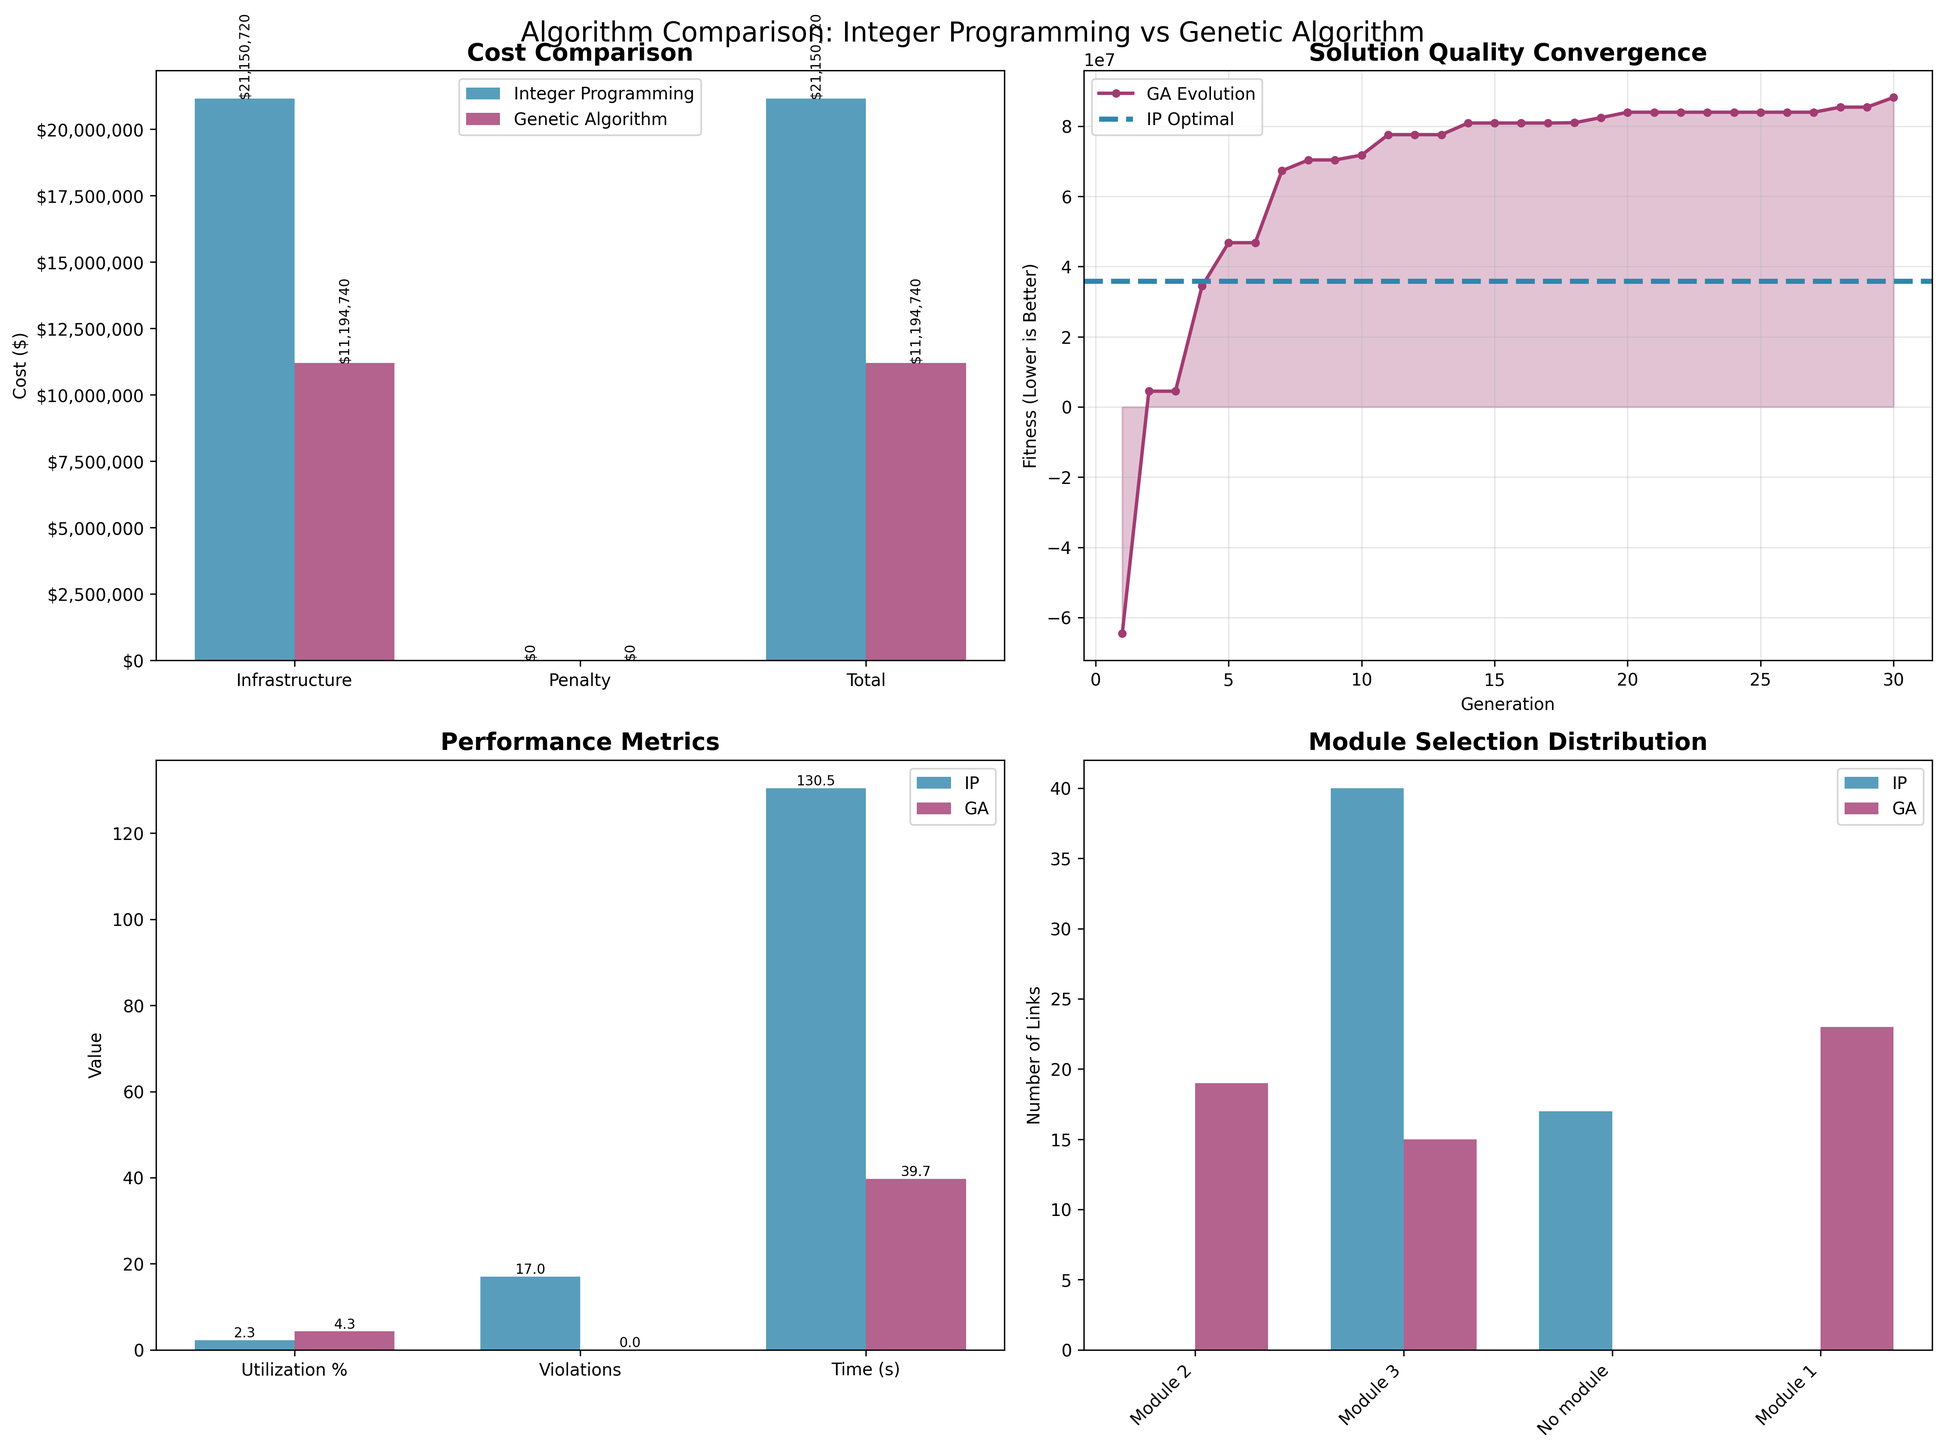
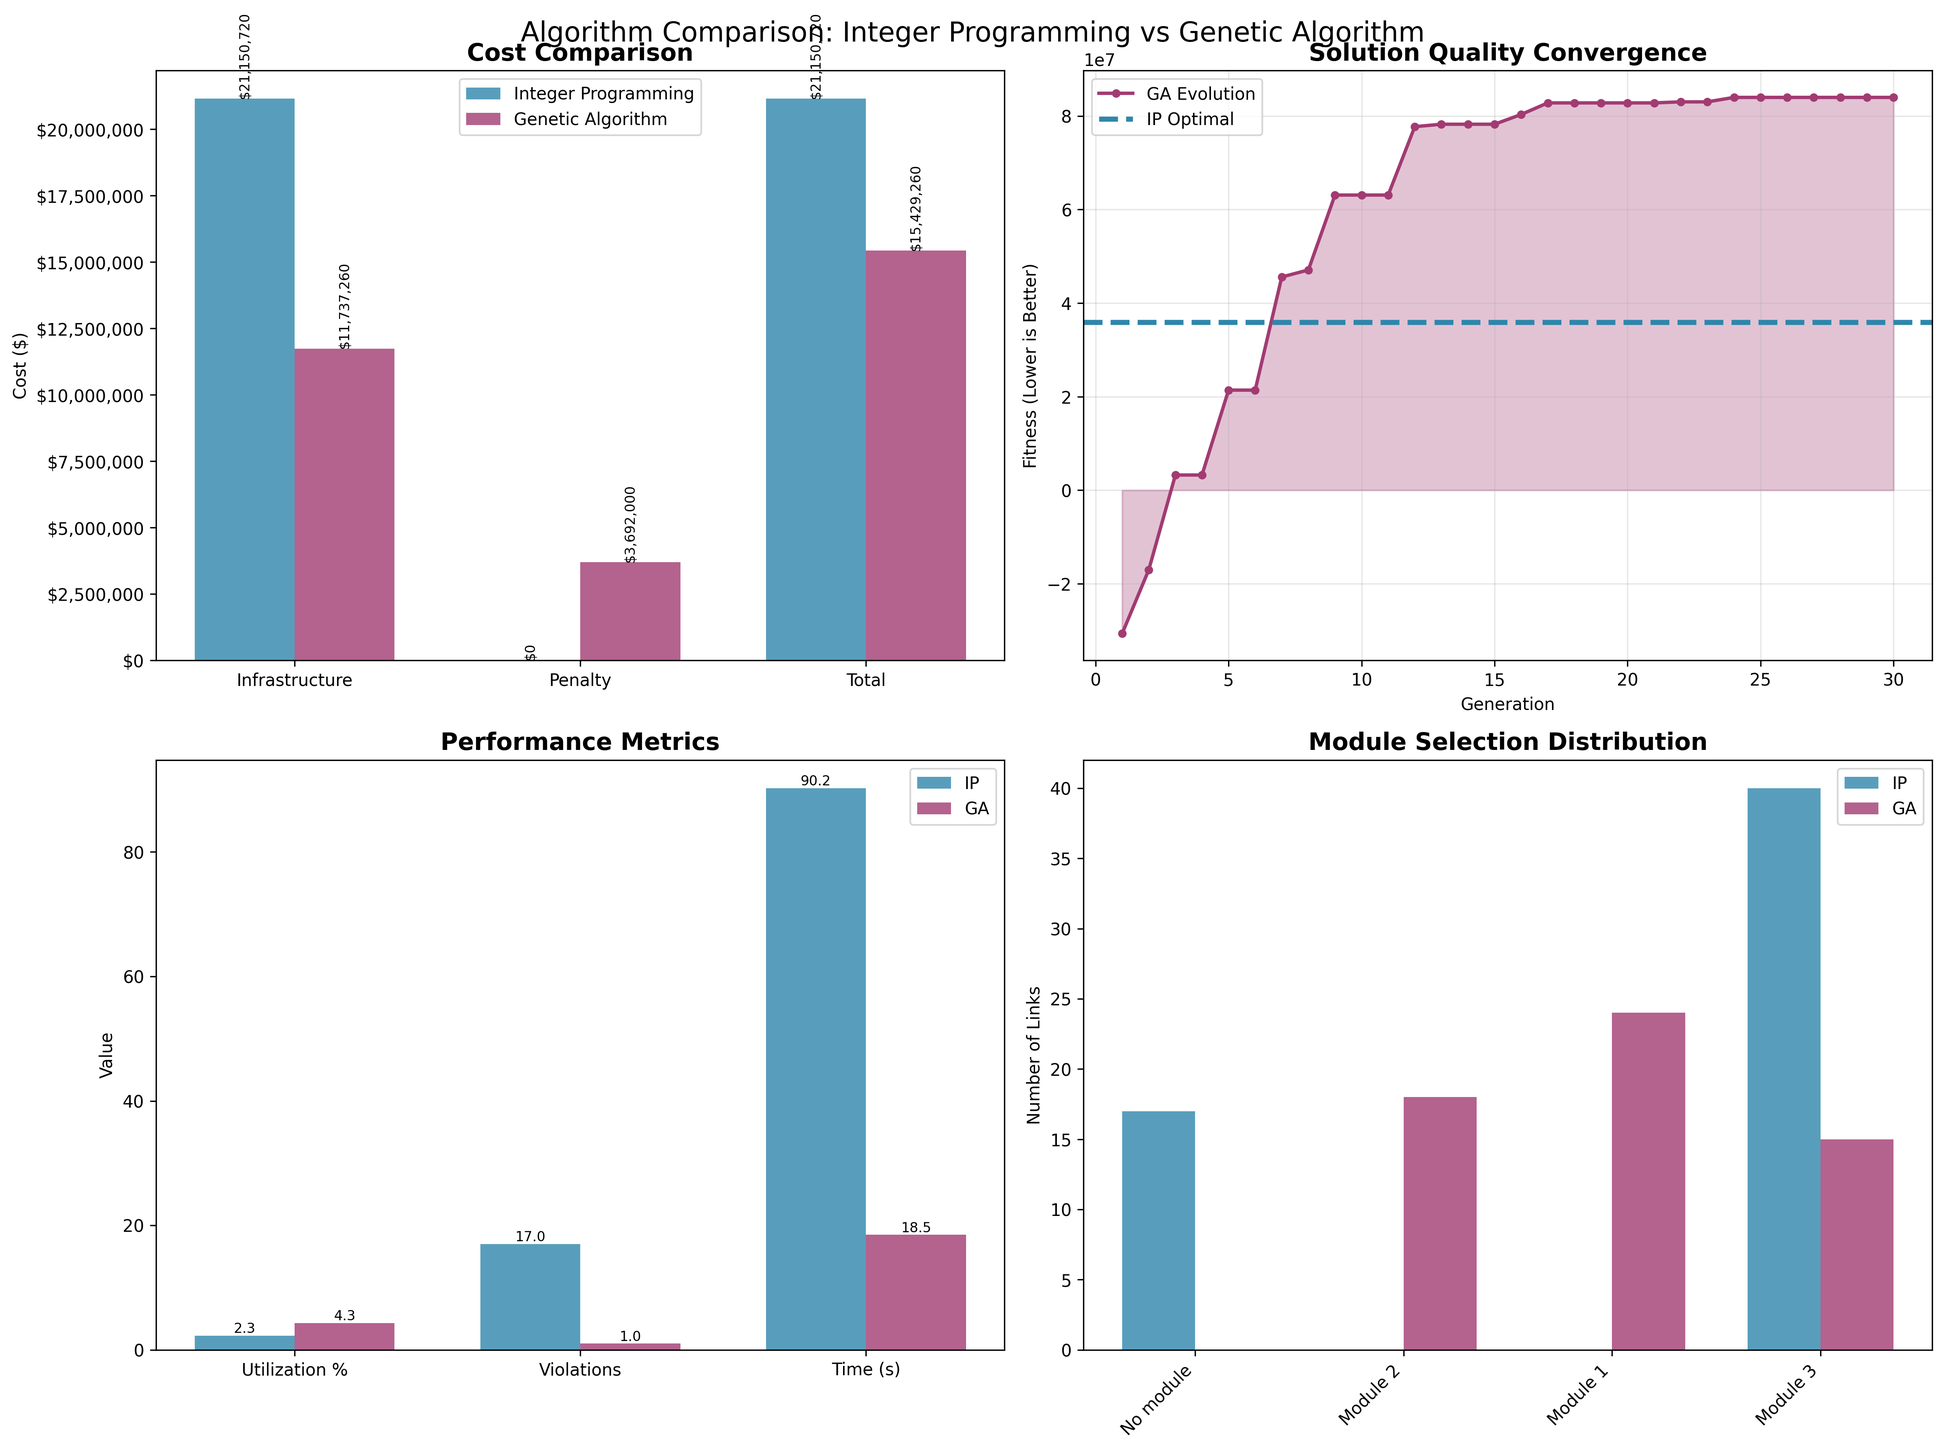
fix issues - default gurobi

diff --git a/main.py b/main.py
@@ -313,7 +313,8 @@ def create_detailed_analysis_plots(ip_results, ga_results):
 
 def create_performance_analysis_plots(ip_results, ga_results):
     """Create performance and convergence analysis plots."""
-    fig, ((ax1, ax2), (ax3, ax4)) = plt.subplots(2, 2, figsize=(16, 12))
+    fig, ((ax1, ax2, ax3), (ax4, ax5, ax6)
+          ) = plt.subplots(2, 3, figsize=(24, 12))
 
     ip_details = ip_results['solution_details']
     ga_details = ga_results['solution_details']
@@ -438,7 +439,74 @@ def create_performance_analysis_plots(ip_results, ga_results):
         ax3.text(bar.get_x() + bar.get_width()/2., height + 0.02,
                  labels[i], ha='center', va='bottom', fontsize=9)
 
-    # 4. Algorithm Trade-off Analysis (Pareto Front Style)
+    # 4. Average Optimal Norm over Generation/Iteration
+    if ga_results.get('average_fitness_history'):
+        generations = list(
+            range(1, len(ga_results['average_fitness_history']) + 1))
+        ga_avg_fitness = ga_results['average_fitness_history']
+
+        ax4.plot(generations, ga_avg_fitness, 'o-', color='#A23B72',
+                 linewidth=2, markersize=4, label='GA Average Fitness')
+
+        # Add IP optimal line as reference (single point since IP doesn't iterate)
+        ax4.axhline(y=ip_results['best_fitness'], color='#2E86AB',
+                    linestyle='--', linewidth=2, alpha=0.8, label='IP Optimal Reference')
+
+        ax4.set_title('Average Optimal Norm Over Generations',
+                      fontsize=14, fontweight='bold')
+        ax4.set_xlabel('Generation/Iteration')
+        ax4.set_ylabel('Average Fitness (Higher is Better)')
+        ax4.legend()
+        ax4.grid(True, alpha=0.3)
+
+        # Fill area under curve for better visualization
+        ax4.fill_between(generations, ga_avg_fitness,
+                         alpha=0.3, color='#A23B72')
+    else:
+        # If no GA data, just show IP point
+        ax4.scatter([1], [ip_results['best_fitness']], color='#2E86AB',
+                    s=100, label='IP Optimal', alpha=0.8)
+        ax4.set_title('Average Optimal Norm Over Generations',
+                      fontsize=14, fontweight='bold')
+        ax4.set_xlabel('Generation/Iteration')
+        ax4.set_ylabel('Average Fitness (Higher is Better)')
+        ax4.legend()
+        ax4.grid(True, alpha=0.3)
+
+    # 5. Time per Generation/Iteration
+    if ga_results.get('plotting_data', {}).get('execution_timeline', {}).get('time_per_generation'):
+        generations = list(range(1, len(
+            ga_results['plotting_data']['execution_timeline']['time_per_generation']) + 1))
+        time_per_gen = ga_results['plotting_data']['execution_timeline']['time_per_generation']
+
+        ax5.plot(generations, time_per_gen, 'o-', color='#28A745',
+                 linewidth=2, markersize=4, label='GA Time per Generation')
+
+        # Add IP time as reference (single point)
+        ax5.scatter([1], [ip_results['total_time']], color='#2E86AB',
+                    s=100, label='IP Total Time', alpha=0.8)
+
+        ax5.set_title('Computation Time per Generation/Iteration',
+                      fontsize=14, fontweight='bold')
+        ax5.set_xlabel('Generation/Iteration')
+        ax5.set_ylabel('Time (seconds)')
+        ax5.legend()
+        ax5.grid(True, alpha=0.3)
+
+        # Fill area under curve
+        ax5.fill_between(generations, time_per_gen, alpha=0.3, color='#28A745')
+    else:
+        # If no GA timing data, just show IP point
+        ax5.scatter([1], [ip_results['total_time']], color='#2E86AB',
+                    s=100, label='IP Total Time', alpha=0.8)
+        ax5.set_title('Computation Time per Generation/Iteration',
+                      fontsize=14, fontweight='bold')
+        ax5.set_xlabel('Generation/Iteration')
+        ax5.set_ylabel('Time (seconds)')
+        ax5.legend()
+        ax5.grid(True, alpha=0.3)
+
+    # 6. Algorithm Trade-off Analysis (Pareto Front Style)
     algorithms = ['Integer Programming', 'Genetic Algorithm']
     total_costs = [ip_details['total_cost'] + ip_details.get('total_penalty', 0),
                    ga_details['total_cost'] + ga_details['total_penalty']]
@@ -451,20 +519,20 @@ def create_performance_analysis_plots(ip_results, ga_results):
     sizes = [300, 300]  # Base size for bubbles
 
     for i, (alg, cost, time, quality) in enumerate(zip(algorithms, total_costs, solution_times, solution_quality)):
-        ax4.scatter(time, cost, s=sizes[i], alpha=0.7, color=colors[i],
+        ax6.scatter(time, cost, s=sizes[i], alpha=0.7, color=colors[i],
                     edgecolors='black', linewidth=2, label=f'{alg}\n(Quality: {quality:.1f}%)')
 
         # Add algorithm name as annotation
-        ax4.annotate(alg.split()[0], (time, cost),
+        ax6.annotate(alg.split()[0], (time, cost),
                      xytext=(10, 10), textcoords='offset points',
                      fontsize=10, fontweight='bold')
 
-    ax4.set_title('Algorithm Trade-off Analysis\n(Cost vs Time vs Quality)',
+    ax6.set_title('Algorithm Trade-off Analysis\n(Cost vs Time vs Quality)',
                   fontsize=14, fontweight='bold')
-    ax4.set_xlabel('Solution Time (seconds)')
-    ax4.set_ylabel('Total Cost ($)')
-    ax4.legend(bbox_to_anchor=(1.05, 1), loc='upper left')
-    ax4.grid(True, alpha=0.3)
+    ax6.set_xlabel('Solution Time (seconds)')
+    ax6.set_ylabel('Total Cost ($)')
+    ax6.legend(bbox_to_anchor=(1.05, 1), loc='upper left')
+    ax6.grid(True, alpha=0.3)
 
     plt.tight_layout()
     plt.suptitle('Performance Analysis: Convergence, Robustness & Trade-offs',
@@ -498,16 +566,34 @@ def print_summary(algorithm_name, results):
         f"Links with Modules: {modules_selected}/{total_links} ({modules_selected/total_links*100:.1f}%)")
 
 
+def genetic_algorithm():
+    return run_genetic_algorithm(
+        num_generations=50,
+        sol_per_pop=50,
+        num_parents_mating=20,
+        time_limit=20*60,
+        msg=False
+    )
+
+
+def integer_programming():
+    return run_integer_programming(
+        solver_name="GUROBI",
+        time_limit=20*60,
+        msg=False
+    )
+
+
 def main(algorithm="both"):
     """Main function to run optimization algorithms."""
     if algorithm == "genetic":
         print("Running Genetic Algorithm...")
-        results = run_genetic_algorithm(num_generations=30, time_limit=10)
+        results = genetic_algorithm()
         print_summary("Genetic Algorithm", results)
 
     elif algorithm == "ip":
         print("Running Integer Programming...")
-        results = run_integer_programming(time_limit=10)
+        results = integer_programming()
         print_summary("Integer Programming", results)
 
     else:  # both
@@ -520,15 +606,10 @@ def main(algorithm="both"):
 
             # Submit both tasks
             ga_future = executor.submit(
-                run_genetic_algorithm,
-                num_generations=30,
-                time_limit=60,
-                msg=False
+                genetic_algorithm,
             )
             ip_future = executor.submit(
-                run_integer_programming,
-                time_limit=60,
-                msg=False
+                integer_programming(),
             )
 
             # Wait for results
@@ -559,6 +640,7 @@ def main(algorithm="both"):
             print("Both algorithms achieved similar costs")
 
         print(f"IP Optimal: {ip_results.get('status') == 'Optimal'}")
+        print(f"IP Status: {ip_results.get('status')}")
         print(f"GA Timeout: {ga_results.get('timeout_occurred', False)}")
 
         # Create comprehensive comparison plots

diff --git a/integer/integer_programming.py b/integer/integer_programming.py
@@ -190,18 +190,17 @@ class IntegerProgrammingOptimizer:
             status = pulp.LpStatusNotSolved
         except Exception as e:
             print(f"❌ Solver error: {e}")
-            print("   Falling back to traditional solving...")
 
-            # Fall back to traditional solving
+            # Only fall back for direct solver model approaches (CPLEX_PY, GUROBI_PY)
+            # Traditional solvers like CBC don't need fallback as they use the same approach
+
+            print("   Falling back to CBC solver...")
             try:
-                if solver_name == "PULP_CBC_CMD":
-                    if self.time_limit and self.time_limit > 0:
-                        options = [f"seconds {self.time_limit}"]
-                        solver = pulp.PULP_CBC_CMD(msg=msg, options=options)
-                    else:
-                        solver = pulp.PULP_CBC_CMD(msg=msg)
-                else:
-                    solver = pulp.getSolver(solver_name, msg=msg)
+                # Fall back to CBC when commercial solvers fail
+                if self.time_limit and self.time_limit > 0:
+                    options = [f"seconds {self.time_limit}"]
+
+                solver = pulp.PULP_CBC_CMD(msg=msg, options=options)
 
                 status = prob.solve(solver)
             except KeyboardInterrupt:
@@ -214,21 +213,52 @@ class IntegerProgrammingOptimizer:
         # Calculate solve time
         self.solve_time = time.time() - self.start_time if self.start_time else 0
 
-        # Extract solution and objective value
+        # Extract solution and objective value with proper status checking
         solution = None
         objective_value = None
+        actual_status = pulp.LpStatus[status]
 
-        if status == pulp.LpStatusOptimal:
+        # For CBC, always check if we hit the time limit regardless of reported status
+        time_limit_reached = False
+        if solver_name == "PULP_CBC_CMD" and self.time_limit:
+            # CBC often reports "Optimal" even when hitting time limit
+            time_limit_reached = self.solve_time >= self.time_limit * 0.95
+
+        # Check if we have a feasible solution
+        has_solution = status in [pulp.LpStatusOptimal, pulp.LpStatusNotSolved]
+
+        # For CBC solver, check if we actually have variable values even if status isn't optimal
+        if not has_solution and solver_name == "PULP_CBC_CMD":
+            # Try to extract solution anyway - CBC might have found a feasible solution
+            try:
+                test_solution = self._extract_solution(y)
+                if test_solution and any(pulp.value(y[link_id][0]) is not None for link_id in self.link_ids):
+                    has_solution = True
+            except:
+                pass
+
+        if has_solution:
             try:
                 solution = self._extract_solution(y)
                 objective_value = pulp.value(prob.objective)
+
+                # Store variables for flow calculation
+                self._last_solution_variables = {'x': x, 'y': y}
+
+                # Override status if we hit time limit
+                if time_limit_reached:
+                    actual_status = "Feasible (Time Limit)"
+                    print(
+                        f"⚠  Time limit reached ({self.solve_time:.1f}s/{self.time_limit}s) - solution may not be optimal")
+
             except Exception as e:
-                print(f"Error extracting optimal solution: {e}")
+                print(f"Error extracting solution: {e}")
                 solution = None
                 objective_value = None
+                actual_status = "Error"
         else:
             print(
-                f"Solver finished with status: {pulp.LpStatus[status]} - no solution available")
+                f"Solver finished with status: {actual_status} - no solution available")
             solution = None
             objective_value = float('inf')
 
@@ -237,7 +267,7 @@ class IntegerProgrammingOptimizer:
             'best_fitness': objective_value if objective_value is not None else float('inf'),
             'optimizer': self,
             'total_time': self.solve_time,
-            'status': pulp.LpStatus[status],
+            'status': actual_status,
             'problem': prob,
             'variables': {'x': x, 'y': y}
         }
@@ -286,6 +316,36 @@ class IntegerProgrammingOptimizer:
             solution.append(selected_module)
         return solution
 
+    def _get_actual_link_flows_from_solution(self):
+        """
+        Extract actual flow values for each link from the optimization solution
+        This gives us the true demand on each link as determined by the optimization
+        """
+        if not hasattr(self, '_last_solution_variables'):
+            # Fallback to direct demand calculation if no solution variables available
+            return self._get_all_link_demands()
+
+        x_vars = self._last_solution_variables.get('x', {})
+        flow_on_links = {}
+
+        for link_id in self.link_ids:
+            total_flow = 0.0
+
+            # Sum flow in both directions for this link
+            for direction in ['fwd', 'rev']:
+                edge_key = f"{link_id}_{direction}"
+                if edge_key in x_vars:
+                    # Sum all demand flows on this directed edge
+                    for (s, t, _) in self.D:
+                        if (s, t) in x_vars[edge_key]:
+                            flow_value = pulp.value(x_vars[edge_key][(s, t)])
+                            if flow_value is not None:
+                                total_flow += flow_value
+
+            flow_on_links[link_id] = total_flow
+
+        return flow_on_links
+
     def get_solution_details(self, solution):
         """Get detailed solution information similar to genetic algorithm"""
         if solution is None:
@@ -296,6 +356,9 @@ class IntegerProgrammingOptimizer:
         total_capacity_violations = 0
         total_unmet_demand = 0.0
 
+        # Get the actual flow values from the optimization solution
+        flow_on_links = self._get_actual_link_flows_from_solution()
+
         for i, link_id in enumerate(self.link_ids):
             link = self.network.links[link_id]
             module_choice = int(solution[i])
@@ -304,7 +367,9 @@ class IntegerProgrammingOptimizer:
             capacity_options = link.get_total_capacity_options()
             if module_choice < len(capacity_options):
                 capacity, cost = capacity_options[module_choice]
-                demand = self._get_link_demand(link_id)
+
+                # Use actual flow from optimization solution, not just direct demands
+                demand = flow_on_links.get(link_id, 0.0)
 
                 # Module selection details
                 if module_choice == 0:
@@ -350,8 +415,8 @@ class IntegerProgrammingOptimizer:
                 link_details.append(link_detail)
                 total_cost += cost
 
-        # Calculate network statistics
-        total_demand = sum(self._get_all_link_demands().values())
+        # Calculate network statistics using actual flows
+        total_demand = sum(flow_on_links.values())
         total_capacity = sum(detail['total_capacity']
                              for detail in link_details)
 

diff --git a/genetic/genetic_algorithm.py b/genetic/genetic_algorithm.py
@@ -15,12 +15,11 @@ NetworkGraph = network_module.NetworkGraph
 class GeneticAlgorithmOptimizer:
     """Genetic Algorithm implementation for network optimization"""
 
-    def __init__(self, network: NetworkGraph, time_limit=None, ensure_one_iteration=False, msg=False):
+    def __init__(self, network: NetworkGraph, time_limit=None, msg=False):
         self.network = network
         self.link_ids = list(network.links.keys())
         self.num_genes = len(self.link_ids)
         self.time_limit = time_limit
-        self.ensure_one_iteration = ensure_one_iteration
         self.start_time = None
         self.timeout_occurred = False
         self.msg = msg
@@ -156,7 +155,7 @@ class GeneticAlgorithmOptimizer:
             elapsed_time = time.time() - self.start_time
             if elapsed_time > self.time_limit:
                 # Check if we should ensure at least one iteration
-                if self.ensure_one_iteration and ga_instance.generations_completed == 0:
+                if ga_instance.generations_completed == 0:
                     if self.msg:
                         print(
                             f"⏰ Time limit reached ({elapsed_time:.2f}s / {self.time_limit}s)")
@@ -463,8 +462,7 @@ def main():
 
 
 def run_genetic_algorithm(nodes_file="nodes.txt", links_file="links.txt", demands_file="demands.txt",
-                          num_generations=50, sol_per_pop=50, num_parents_mating=20, time_limit=None,
-                          ensure_one_iteration=False, msg=False):
+                          num_generations=50, sol_per_pop=50, num_parents_mating=20, time_limit=None, msg=False):
     """
     Run genetic algorithm optimization and return results for external plotting/analysis.
 
@@ -476,7 +474,6 @@ def run_genetic_algorithm(nodes_file="nodes.txt", links_file="links.txt", demand
         sol_per_pop: Population size
         num_parents_mating: Number of parents for mating
         time_limit: Maximum time in seconds (None for no limit)
-        ensure_one_iteration: If True, ensures at least one generation completes even if timeout occurs
         msg: Whether to show solver messages
 
     Returns:
@@ -512,7 +509,7 @@ def run_genetic_algorithm(nodes_file="nodes.txt", links_file="links.txt", demand
 
     # Create optimizer with time limit and message settings
     optimizer = GeneticAlgorithmOptimizer(
-        network, time_limit=time_limit, ensure_one_iteration=ensure_one_iteration, msg=msg)
+        network, time_limit=time_limit, msg=msg)
 
     # Run optimization
     results = optimizer.optimize(
